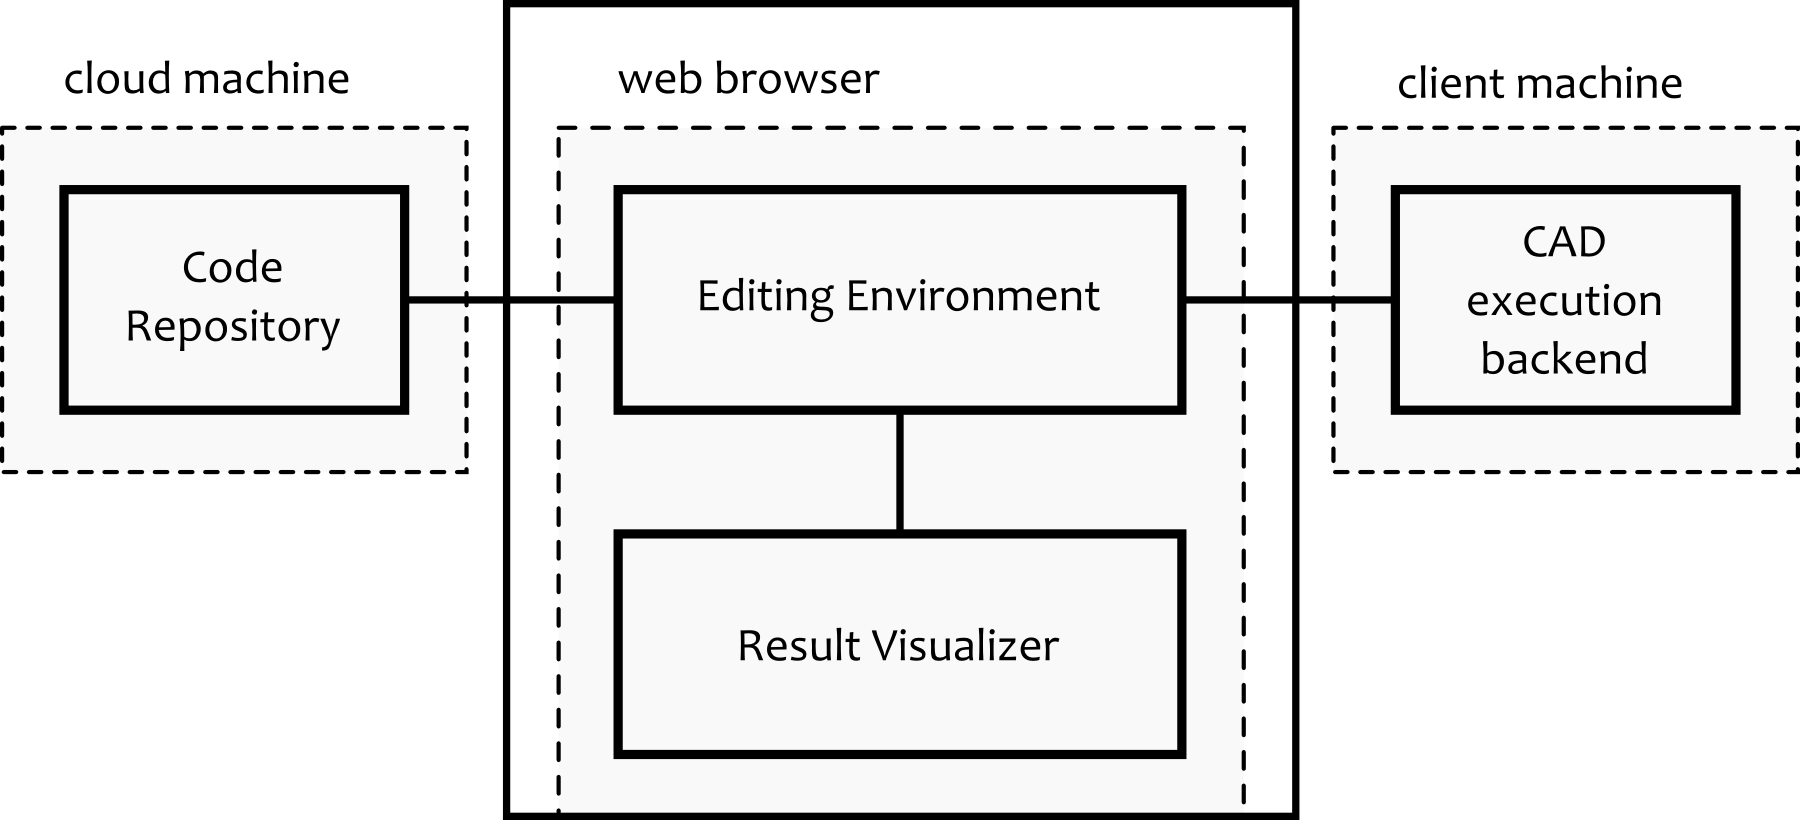
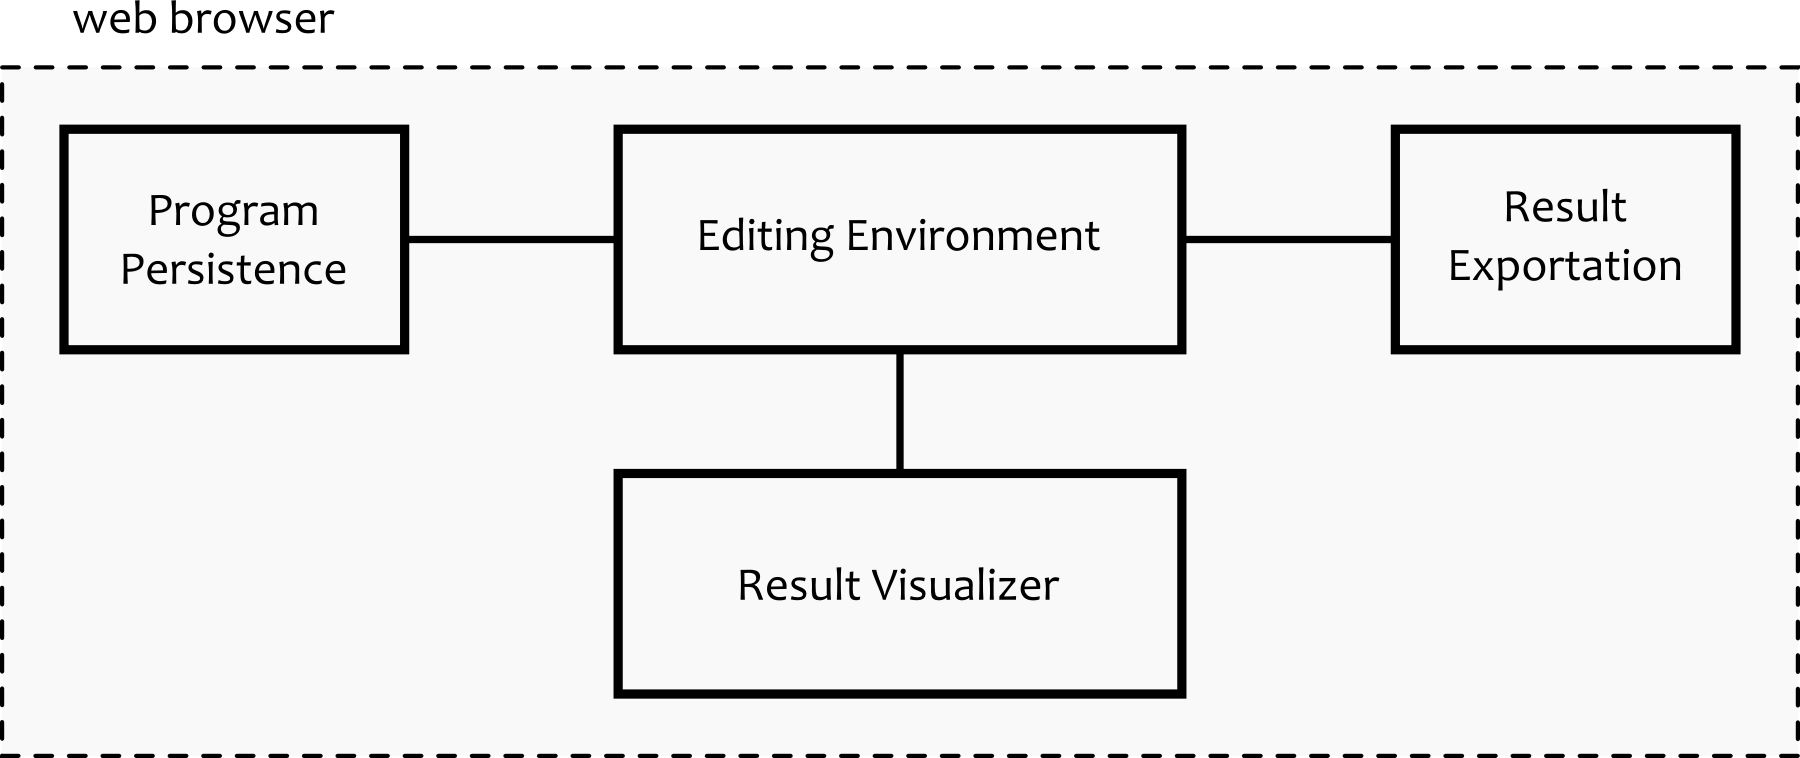
Architecture: Rewroted General Solution section; trying to go towards standalone web page, as suggested by advisor.

diff --git a/report.tex b/report.tex
@@ -675,10 +675,19 @@ void draw() {
 \subsection{General Solution}
 	Taking into account the aspects described above a temporary version of the architecture of the solution was made.
 	
-	As shown in Figure \ref{fig:gen:sol}, there are three main components, the local program editor, where the programs are edited and executed, the remote repository, which handles persistent storage of programs, and the external execution backend, which is responsible for translating programs to other \ac{cad} software.
+	The center of the \ac{ide} is composed by an editing environment, where source code is edited, and a result visualizer, where results of running a program are visualized in 3D.
+	Both of these are hosted within the web browser of the user and like so after the \ac{ide}'s web page is served to the browser it is no longer dependent on external computers.
 	
-	The local code editor and the remote code repository communicate to ``post'' new code to or ``get'' code from the repository.
-	The local code editor communicates with the \ac{cad} execution backend to request the execution of programs and manages their results.
+	As starting ideas for features that will help users understand programs there is highlighting the 3D objects in the resulting scene that were ``affected'' by a part of the program and also letting users change the value of constants in source code using widgets, like sliders, to see their effects on results.
+	
+	Interacting with programs and their results will only be possible if the \ac{ide} can display results or update them fast enough so a great part of our work will be in making sure it is.
+	This may involve compromising the quality of the 3D scene that represents the results to get faster.
+	
+	Since there is no dependency on other machines, supporting program persistence and allowing the results of programs to get to other software are limited to what a web browser can do.
+	Since web browsers allow some local storage to web pages, programs can be persisted there, at least temporarily.
+	On the side of getting results into other software, without communication with the outside we are limited to either using a programming language supported by Rosetta or exporting to a widely supported file format.
+	
+	The editing environment and the result visualizer together with program persistence and result exportation can be visualized in Figure \ref{fig:gen:sol}.
 	
 	\begin{figure}
 		\centering
@@ -686,21 +695,6 @@ void draw() {
 		\caption{A diagram of the architecture of the solution. Rectangles represent components, dashed rectangles represent where components will run and lines represent communication between components.}
 		\label{fig:gen:sol}
 	\end{figure}	
-	
-	\paragraph{Local code editor}
-		The local code editor is the component that actually interacts with the users of the system.
-		It will be responsible of allowing the user to view and edit programs as well as viewing their results.
-		By communicating with the \ac{cad} execution backend, it will also allow users to run programs inside external \ac{cad} software.
-	
-	\paragraph{Remote code repository}
-		This component will be responsible for keeping programs from the users of the \ac{ide}.
-		It is to be installed on a server connected to the internet to allow users to access their programs as long as they have a connection to the internet.
-		It will also support version control and will have a model of programs it stores.
-		
-	\paragraph{CAD execution backend}
-		The CAD execution backend will be responsible for executing programs inside the \ac{cad} software they are connected to.
-		This component will have to be installed in the user's computer.
-		It will use Rosetta\cite{de2012modern} to actually connect to \ac{cad}s and will translate the received programs into Rosetta primitives.
 
 %----------------------------------------------------
 %NAVevaluation
